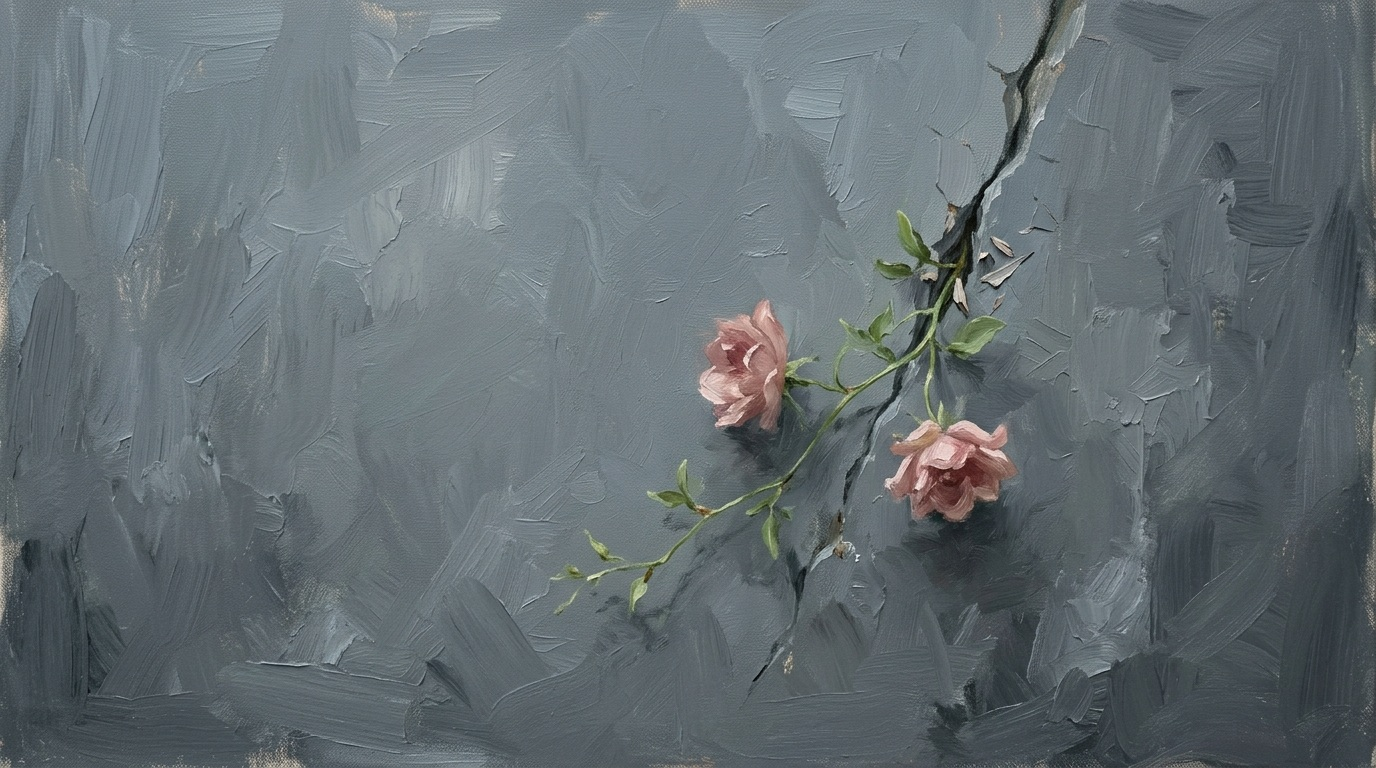
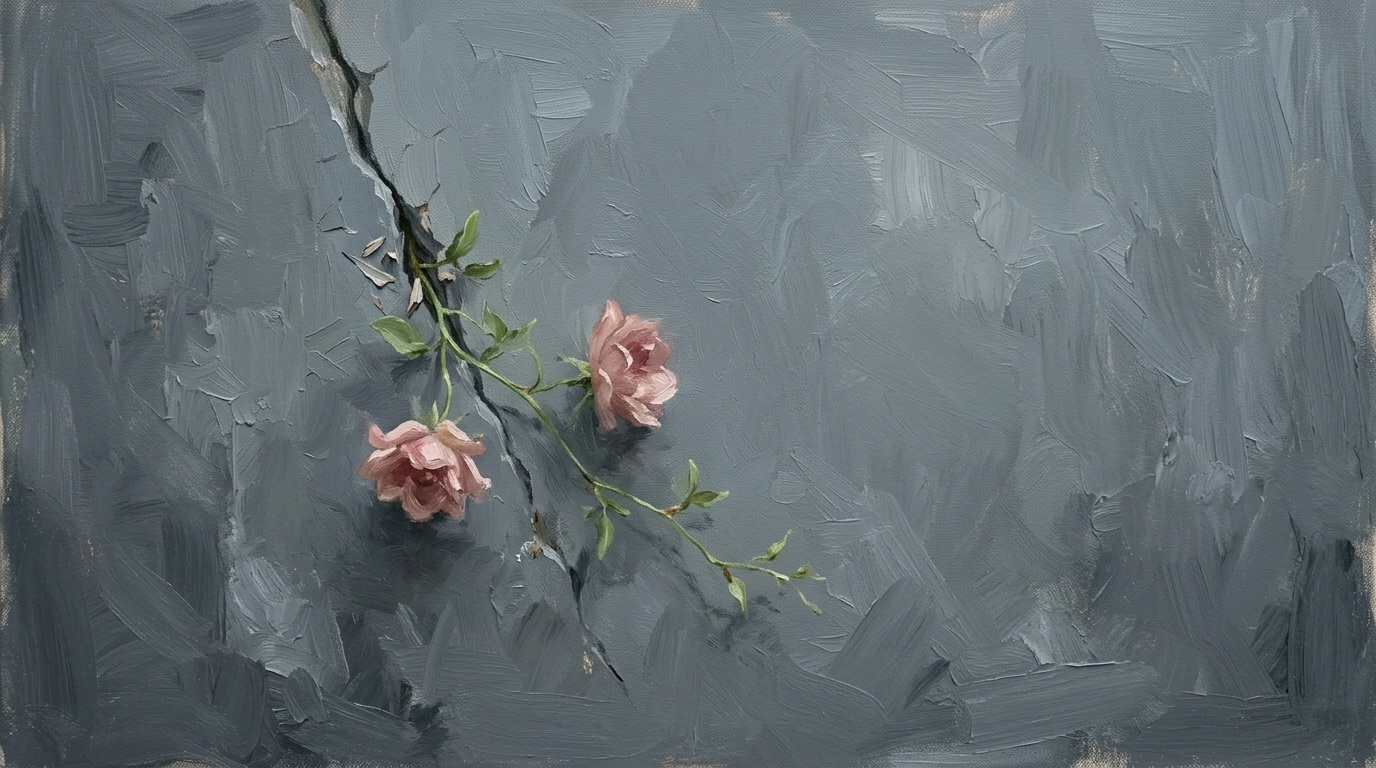
0423

diff --git a/content/essays/castration-and-newborns.md b/content/essays/castration-and-newborns.md
@@ -60,12 +60,16 @@ order: 2
 > یک منطق تکراری در داستانها [واکنشیبودن](https://tvtropes.org/pmwiki/pmwiki.php/Main/VillainsActHeroesReact) قهرمانهاست. قهرمانها هیچوقت به خودیِ خود دنیا را تغییر نمیدهند؛ بلکه مشغول زندگی روزمرهاند تا سروکلهٔ ضدقهرمانی پیدا شود و نظم موجود را به هم بریزد. ضدقهرمانها [جاهطلباند](https://tvtropes.org/pmwiki/pmwiki.php/Main/AmbitionIsEvil) و با ابزار آشوب (Chaos) نظم را به هم میزنند. اینجا وظیفهٔ قهرمان است که با او مقابله کند و آشوب را به نظم (Order) برگرداند. پیشفرض اصلی این نگاه، بیان ارزشمندی و دفاع از «وضع موجود» است. قهرمان همیشه ضدقهرمان دارد و «وضع موجود» هیچگاه ضدقهرمان نیست که قهرمان بخواهد علیهش قیام کند. لذا بزرگترین آثار قهرمانی -مثل داستانهای مارول- هم خودآگاه یا ناخودآگاه [تأیید میکنند](https://www.youtube.com/watch?v=LpitmEnaYeU) که «ایدئالترین موقعیت همان لولهکشی اصلی بود که داشتیم». 
 > 
 
-| ![[heroes-we-are-allowed.jpg]]                                                                                                                                                                                                                                                                                                                                                                                                                              |
-| ----------------------------------------------------------------------------------------------------------------------------------------------------------------------------------------------------------------------------------------------------------------------------------------------------------------------------------------------------------------------------------------------------------------------------------------------------------- |
-| این جدولی از قهرمانان و ضدقهرمانان مشهور در فرهنگ آمریکایی است که در [این متن](https://www.kvetch.au/p/the-heroes-were-allowed) نویسنده تقسیمبندیشان کرده است. محور افقی گرایش قهرمان-ضدقهرمان بودن آنها را نشان میدهد و محور عمودی مشخص میکند که چقدر در مسیرشان اهل واکنش و چقدر اهل کنش هستند. اغلب شخصیتهای منفی کنشگر و مثبتها واکنشگر هستند. جالب اینجاست که به نظر نویسنده -که خودش یهودی است- موسی و عیسی در دو سر طیف کنشگری قرار دارند. |
+| ![[heroes-we-are-allowed.jpg]]                                                                                                                                                                                                                                                                                                                                                                                                                                                         |
+| -------------------------------------------------------------------------------------------------------------------------------------------------------------------------------------------------------------------------------------------------------------------------------------------------------------------------------------------------------------------------------------------------------------------------------------------------------------------------------------- |
+| این جدولی از قهرمانان و ضدقهرمانان مشهور در فرهنگ آمریکایی است که در [این متن](https://www.kvetch.au/p/the-heroes-were-allowed) نویسنده تقسیمبندیشان کرده است. محور افقی گرایش قهرمان-ضدقهرمان بودن آنها را نشان میدهد و محور عمودی مشخص میکند که چقدر در مسیرشان اهل واکنش (پایین) و چقدر اهل کنش (بالا) هستند. اغلب شخصیتهای منفی (راست) کنشگر و مثبتها (چپ) واکنشگر هستند. جالب اینجاست که به نظر نویسنده -که خودش یهودی است- موسی و عیسی در دو سر طیف کنشگری قرار دارند. |
+
 رویارویی با لولهکشیِ قدرت، نه نیازمند قهرمانِ یاغی است که با خروشیدنهای لحظهای سرش را به باد دهد، و نه کارمندِ مطیعی که به وضع موجود تن دهد. هر دوی آنها در به کار بستن امیال ناتوانند، اولی از سر خشم آن را نفهمیده خرج میکند و دومی از سر ترس آن را در خود میخشکاند. در نهایت، هر دو به پیشبینیترین شکل ممکن عمل میکنند. این مسیر برای تحولخواهان نیازمندِ گونهای دیگر از انسان است که توانایی تمرکز و بروز میل خودش را دارد. من برای تعریف این گروه سوم از استعارهٔ «نوزاد» کمک میگیرم. نوزاد در زمینِ قدرت حضور دارد، اما یکسره با منطق آن تعریف نمیشود. نه به دنبال تصاحب جای پدر است و نه تهدید و تطمیع اثری در میل او دارد. نوزاد سرشار از نیرویی است که هنوز در هیچ قالبی خشک نشده؛ به همین دلیل است که در لولههای از پیشساخته نمیگنجد. انرژی او در لحظه، متمرکز و بیمیانجی بروز میکند: اگر آزرده باشد، آزردگیاش را نشان میدهد، نه بیشتر و نه کمتر. لولهکشی برای او معنا ندارد؛ کسی نمیتواند برای نوزاد قاعده تعیین کند.
 
-هرازگاهی هم ظهور پنجرههای فرصت امکان تغییر دائمی لولهکشی را فراهم میکند. لولهکشی همیشه بد نیست. جامعه نیاز به نظم دارد. اما لولههایی به کار میآیند که اجازهٔ نشت میدهند و بعد از شناسایی نشتی، قابلیت بازتعریف خودشان را دارند. پس حتی در جایگاه قدرت هم میشود راهی برای تعامل بهتر و توزیع قدرت در میان بیقدرتان و تحول سیستم لولهکشی فراهم کرد. شاید این بازیِ موش و گربه ابدی باشد، اما راهِ زنده ماندنِ ارادهٔ انسانی در برابر ماشینِ پیشبینیپذیرِ قدرت، همین آزادگی نوزادوار در رهاسازی میل و رندانگی طوطیوار در به جریان ساختن آن است.
+> [!example] استعارههایی برای رویارویی
+> علاوه بر نوزاد و طوطی، استعارههای دیگری هم برای نگاه به ماجرا وجود دارند. یک نمونهاش ==قنات== است که برای جلوگیری از تبخیر در فضای آزاد، زیر زمین حرکت میکند و تنها جاهایی خاص رو میآید. مشابه قنات، ریشهٔ شبکهای قارچ یا ==Mycelium== است که زیر زمین فعال است و بر خلاف درخت، سر و ته ندارد. قارچهایی هم که گهگداری روی خاک شکل میگیرند، خروجی این شبکه هستند و نه اصل آن. مشابه قارچهای روی زمین، ==دُم مارمولک== است که مثل قارچهای روی زمین به سیستم «توهم شکار» میدهد، در حالی که اصل ماجرا همچنان محفوظ است. مشابه دُم مارمولک، ==دستگیره== است که همان اهرم فشار و کنترل است. انسانهایی که دستگیره و جای دست ندارند، به مراتب سختتر کنترل میشوند. مشابه دستگیره نداشتن، ==لیز بودن== است که حتی در صورت به دست آمدن، خیلی زود باعث رهایی میشود.  
+
+این استتار و بازیهای چریکی مستمر باعث میشود نیرو و میل خام انسان تا روزی که پنجرههای فرصت ظهور میکنند، دستنخورده باقی بماند. ظهور پنجرههای فرصت امکان تغییر دائمی لولهکشی را فراهم میکند. لولهکشی همیشه بد نیست. جامعه نیاز به نظم دارد. اما لولههایی به کار میآیند که اجازهٔ نشت میدهند و بعد از شناسایی نشتی، قابلیت بازتعریف خودشان را دارند. پس حتی در جایگاه قدرت هم میشود راهی برای تعامل بهتر و توزیع قدرت در میان بیقدرتان و تحول سیستم لولهکشی فراهم کرد. ابزارِ کلان «استراتژی» همواره در دست صاحبان قدرت است و بیقدرتان در عوض با «تاکتیک»های کوتاهمدت راه خودشان را در زمین رقیب پیدا میکنند. شاید این بازیِ موش و گربه ابدی باشد، اما راهِ زنده ماندنِ ارادهٔ انسانی در برابر ماشینِ پیشبینیپذیرِ قدرت، همین آزادگی نوزادوار در رهاسازی میل و رندانگی طوطیوار در به جریان ساختن آن است.
 
 [^1]: در تحلیل اسطورههای ایرانی گفتهاند که بر خلاف اسطورههای غربی، «پسرکُشی» تکرار میشود و نه «پدرکشی».
 [^2]: رایجترین شیوهٔ صحبت اینها محکوم کردن فعل به جای فاعل است. مثل محکوم کردن آدمکشی به جای محکوم کردن آدمکش.

diff --git a/content/quotes.md b/content/quotes.md
@@ -168,3 +168,9 @@ date: 2024-05-18
 
 
 <blockquote class="farsi-blockquote">از بهاران کی شود سرسبز سنگ | خاک شو تا گل نمایی رنگ رنگ<footer class="farsi-footer">دفتر اول مثنوی، بخش ۹۶</footer></blockquote>
+
+<blockquote class="farsi-blockquote">اسطوره، تاریخ را به طبیعت تبدیل میکند.<footer class="farsi-footer">رولان بارت</footer></blockquote>
+
+
+<blockquote class="farsi-blockquote">اگر بپذیریم که زندگی انسان را میتوان با عقل مدیریت کرد، آنگاه امکان زندگی از بین میرود.<footer class="farsi-footer">لف تولستوی - جنگ و صلح</footer></blockquote>
+
